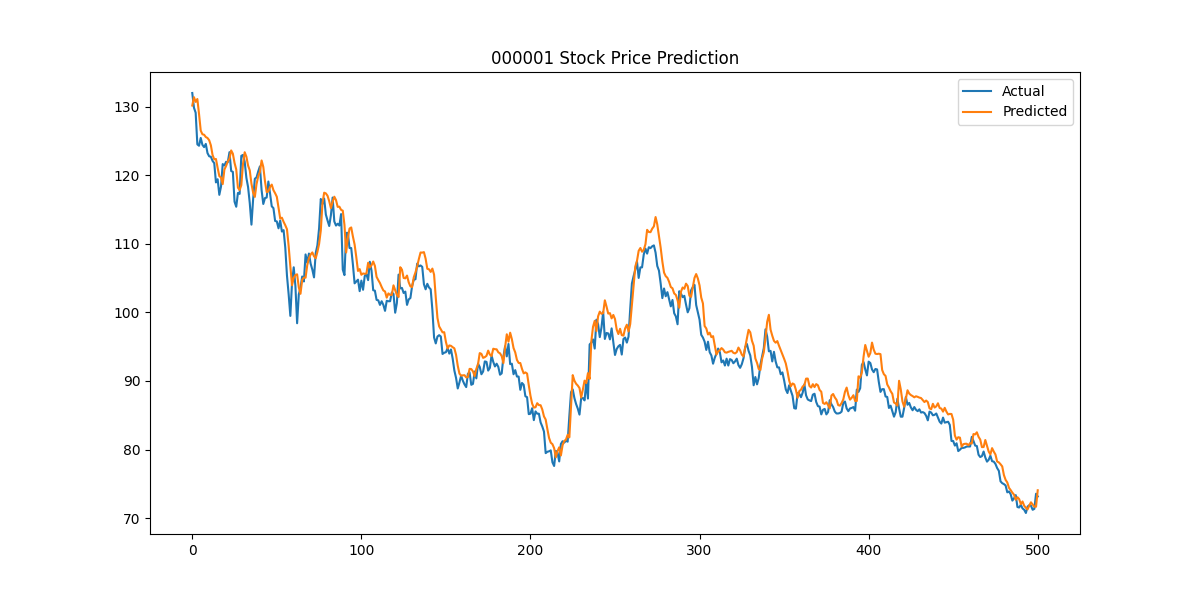
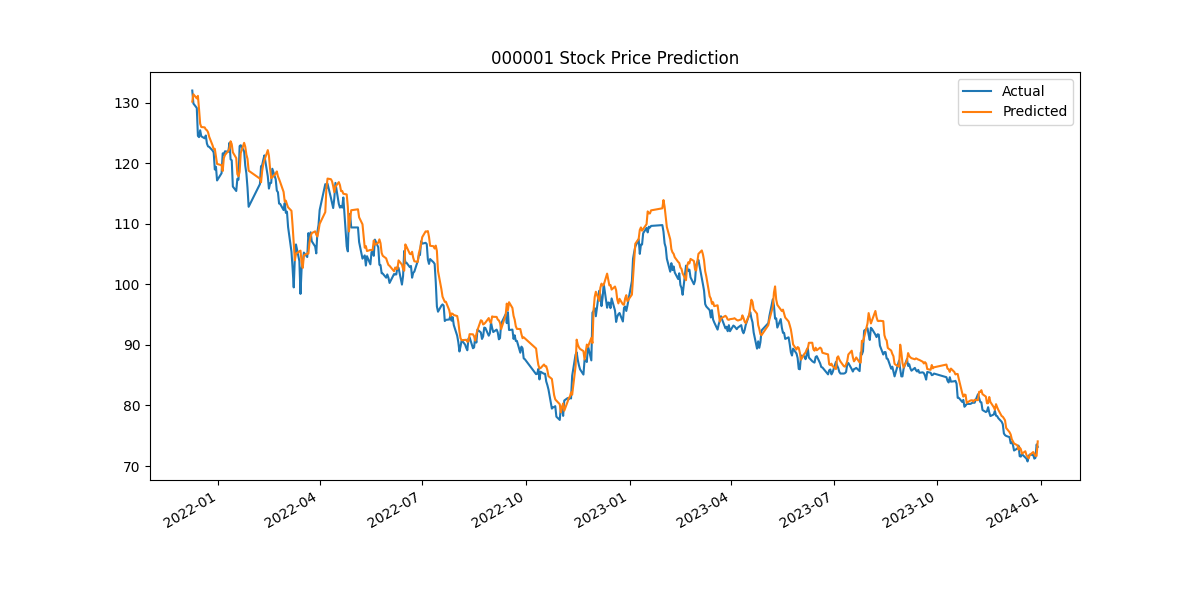
反归一化有问题，保存以便重写

diff --git a/bs_1/prediction.py b/bs_1/prediction.py
@@ -83,8 +83,9 @@ def predict_all_stocks():
             
             # 可视化
             plt.figure(figsize=(12, 6))
-            plt.plot(results.actual, label="Actual")
-            plt.plot(results.predicted, label="Predicted")
+            plt.plot(results.date,results.actual, label="Actual")
+            plt.plot(results.date,results.predicted, label="Predicted")
+            plt.gcf().autofmt_xdate()  # 自动旋转日期标签
             plt.title(f"{code} Stock Price Prediction")
             plt.legend()
             plt.savefig(os.path.join(result_dir, "prediction_plot.png"))
@@ -98,5 +99,5 @@ def predict_all_stocks():
     # 保存汇总指标
     pd.DataFrame(all_metrics).to_csv(os.path.join(RESULTS_PATH, "all_metrics.csv"), index=False)
     print("\n所有股票预测完成.汇总指标已保存")
-# if __name__ == "__main__":
-#     predict_all_stocks()
+if __name__ == "__main__":
+    predict_all_stocks()
